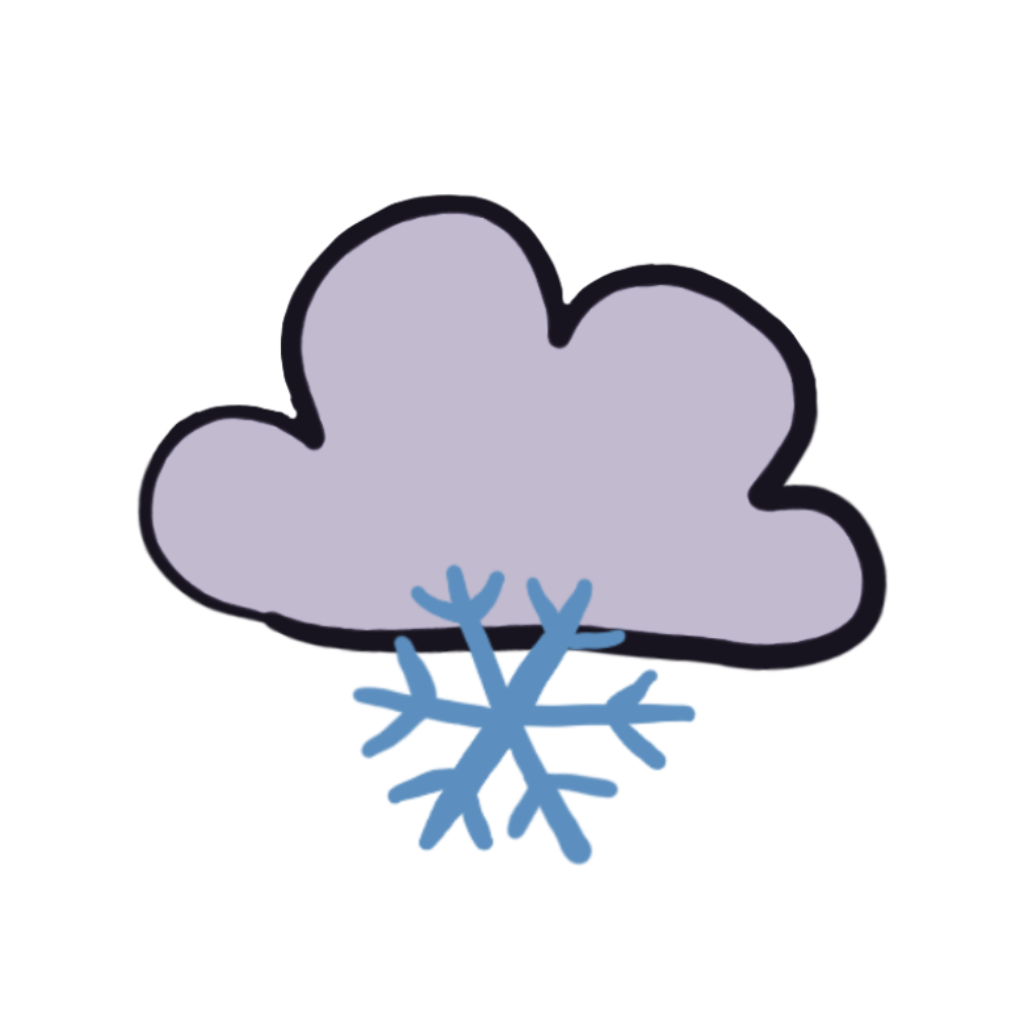
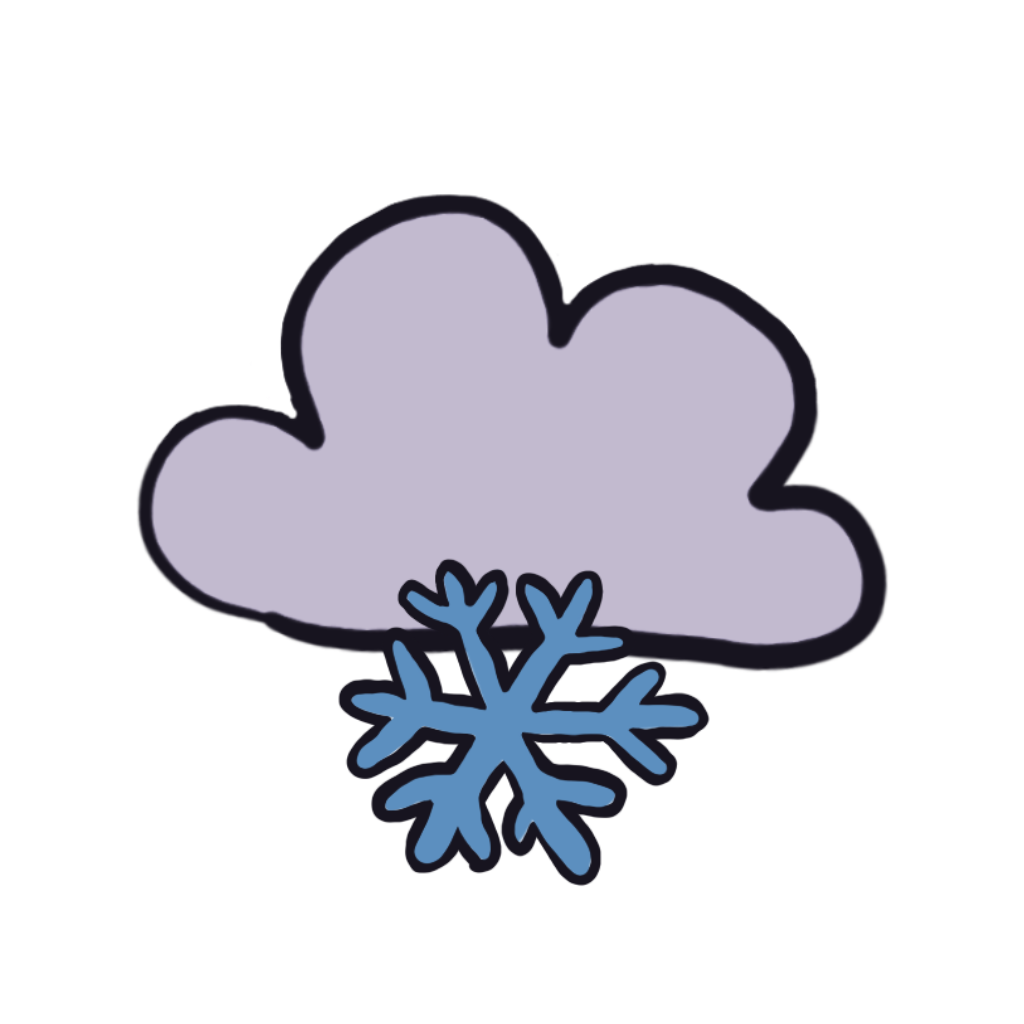
Sleet (snöblandat regn) and Ellen's new snow
Sleet: wet hours above 0.5 °C up to 2 °C, or wet days with a high up
to 3 °C, show Ellen's cloud with a drop and a flake. Snow gets her
redrawn, outlined flake.

Claude-Session: https://claude.ai/code/session_01SaFbPBFfB9NE3XRJsFXALk

Changed region(s): [[0.3125, 0.5312, 0.6875, 0.875]]

diff --git a/app.js b/app.js
@@ -114,7 +114,7 @@
   // Partly cloudy and clear show the moon after dark. On breezy hours that aren't already
   // "windy", a little wind spiral sits in the corner of the sun or cloud, so they're never hidden.
   var BREEZE = 6; // m/s; WIND (the big swoops) starts at 10, set in lib/combine.js
-  var SPOKEN = { THUNDER: "thunder", DRIZZLE: "drizzle", SUN: "sunny", CLEAR: "clear", MIX: "partly cloudy", CLOUDY: "grey", RAIN: "rain", SNOW: "snow", WIND: "windy" };
+  var SPOKEN = { THUNDER: "thunder", DRIZZLE: "drizzle", SLEET: "sleet", SUN: "sunny", CLEAR: "clear", MIX: "partly cloudy", CLOUDY: "grey", RAIN: "rain", SNOW: "snow", WIND: "windy" };
   function iconName(word, day) {
     if (word === "SUN") return "sun";
     if (word === "CLEAR") return "clear";
@@ -123,6 +123,7 @@
     if (word === "RAIN") return "rain";
     if (word === "DRIZZLE") return "drizzle";
     if (word === "SNOW") return "snow";
+    if (word === "SLEET") return "sleet";
     if (word === "WIND") return "wind";
     if (word === "THUNDER") return "thunder";
     return null;
@@ -464,7 +465,7 @@
     };
   }
 
-  var WORDS = { THUNDER: "Thundery", DRIZZLE: "Drizzly", SUN: "Sunny", CLEAR: "Clear", MIX: "Partly cloudy", CLOUDY: "Grey", RAIN: "Wet", SNOW: "Snowy", WIND: "Windy" };
+  var WORDS = { THUNDER: "Thundery", DRIZZLE: "Drizzly", SLEET: "Sleety", SUN: "Sunny", CLEAR: "Clear", MIX: "Partly cloudy", CLOUDY: "Grey", RAIN: "Wet", SNOW: "Snowy", WIND: "Windy" };
 
   function feel(temp) {
     if (temp <= 0) return "frosty";

diff --git a/lib/combine.js b/lib/combine.js
@@ -5,6 +5,8 @@
 const { HOUR } = require("./sources/http");
 
 const RAIN_MM = 0.1; // an hour counts as rainy for a forecast at 0.1 mm or more
+const SNOW_C = 0.5;  // wet and at or below this: snow
+const SLEET_C = 2;   // wet and above snow but at or below this: sleet (snöblandat regn)
 const DRIZZLE_MM = 0.5; // a rainy hour under this is drizzle (one drop), at or above it rain (three drops)
 
 // Collect every source's values into one map: slot start → { sourceId → values }.
@@ -49,7 +51,8 @@ function sunElevation(t, lat, lon) {
 function weatherWord({ temp, mm, rainShare, wind, cloud, day, thunderVotes = 0, thunderShare = 0 }) {
   if (thunderVotes >= 2 && thunderShare >= 1 / 3) return "THUNDER";
   if (rainShare >= 0.5 && mm >= RAIN_MM) {
-    if (temp !== null && temp <= 0.5) return "SNOW";
+    if (temp !== null && temp <= SNOW_C) return "SNOW";
+    if (temp !== null && temp <= SLEET_C) return "SLEET";
     return mm < DRIZZLE_MM ? "DRIZZLE" : "RAIN";
   }
   if (wind !== null && wind >= 10) return "WIND";

diff --git a/tests/combine.test.js b/tests/combine.test.js
@@ -70,3 +70,10 @@ test("light rain is drizzle, from 0.5 mm an hour it's rain", () => {
   assert.strictEqual(weatherWord({ ...base, mm: 0.5 }), "RAIN");
   assert.strictEqual(weatherWord({ ...base, temp: 0, mm: 0.2 }), "SNOW");
 });
+
+test("wet and just above freezing is sleet", () => {
+  const base = { mm: 1, rainShare: 1, wind: 3, cloud: 100, day: true };
+  assert.strictEqual(weatherWord({ ...base, temp: 0.5 }), "SNOW");
+  assert.strictEqual(weatherWord({ ...base, temp: 1.5 }), "SLEET");
+  assert.strictEqual(weatherWord({ ...base, temp: 2.5 }), "RAIN");
+});

diff --git a/lib/days.js b/lib/days.js
@@ -43,6 +43,7 @@ function dayWord({ mm, rainyHours, thunderHours = 0, hi, windMax, cloud, day }) 
   if (thunderHours >= 1) return "THUNDER";
   if (mm !== null && mm >= 1 && rainyHours >= 2) {
     if (hi !== null && hi <= 1) return "SNOW";
+    if (hi !== null && hi <= 3) return "SLEET"; // the day's high, so a little warmer than the hourly 2 °C
     return mm < DRIZZLE_DAY_MM ? "DRIZZLE" : "RAIN"; // a wet but light day, typical Gothenburg drizzle
   }
   return weatherWord({ temp: hi, mm: 0, rainShare: 0, wind: windMax, cloud, day });

diff --git a/art/weather-icons/build.py b/art/weather-icons/build.py
@@ -8,7 +8,7 @@ from PIL import Image, ImageFilter
 
 SRC = os.path.dirname(os.path.abspath(__file__))
 OUT = os.path.join(SRC, "..", "..", "icons", "w")
-NAMES = ["sun", "clear", "mix-day", "mix-night", "cloudy", "rain", "snow", "wind", "breeze", "thunder", "drizzle"]
+NAMES = ["sun", "clear", "mix-day", "mix-night", "cloudy", "rain", "snow", "wind", "breeze", "thunder", "drizzle", "sleet"]
 SIZE = 144
 THICKEN = {"wind": 13}  # px of dilation at 1024 px
 WINDOW = 840  # px of the 1024 canvas shown; the drawings fill roughly 700–800 of it
